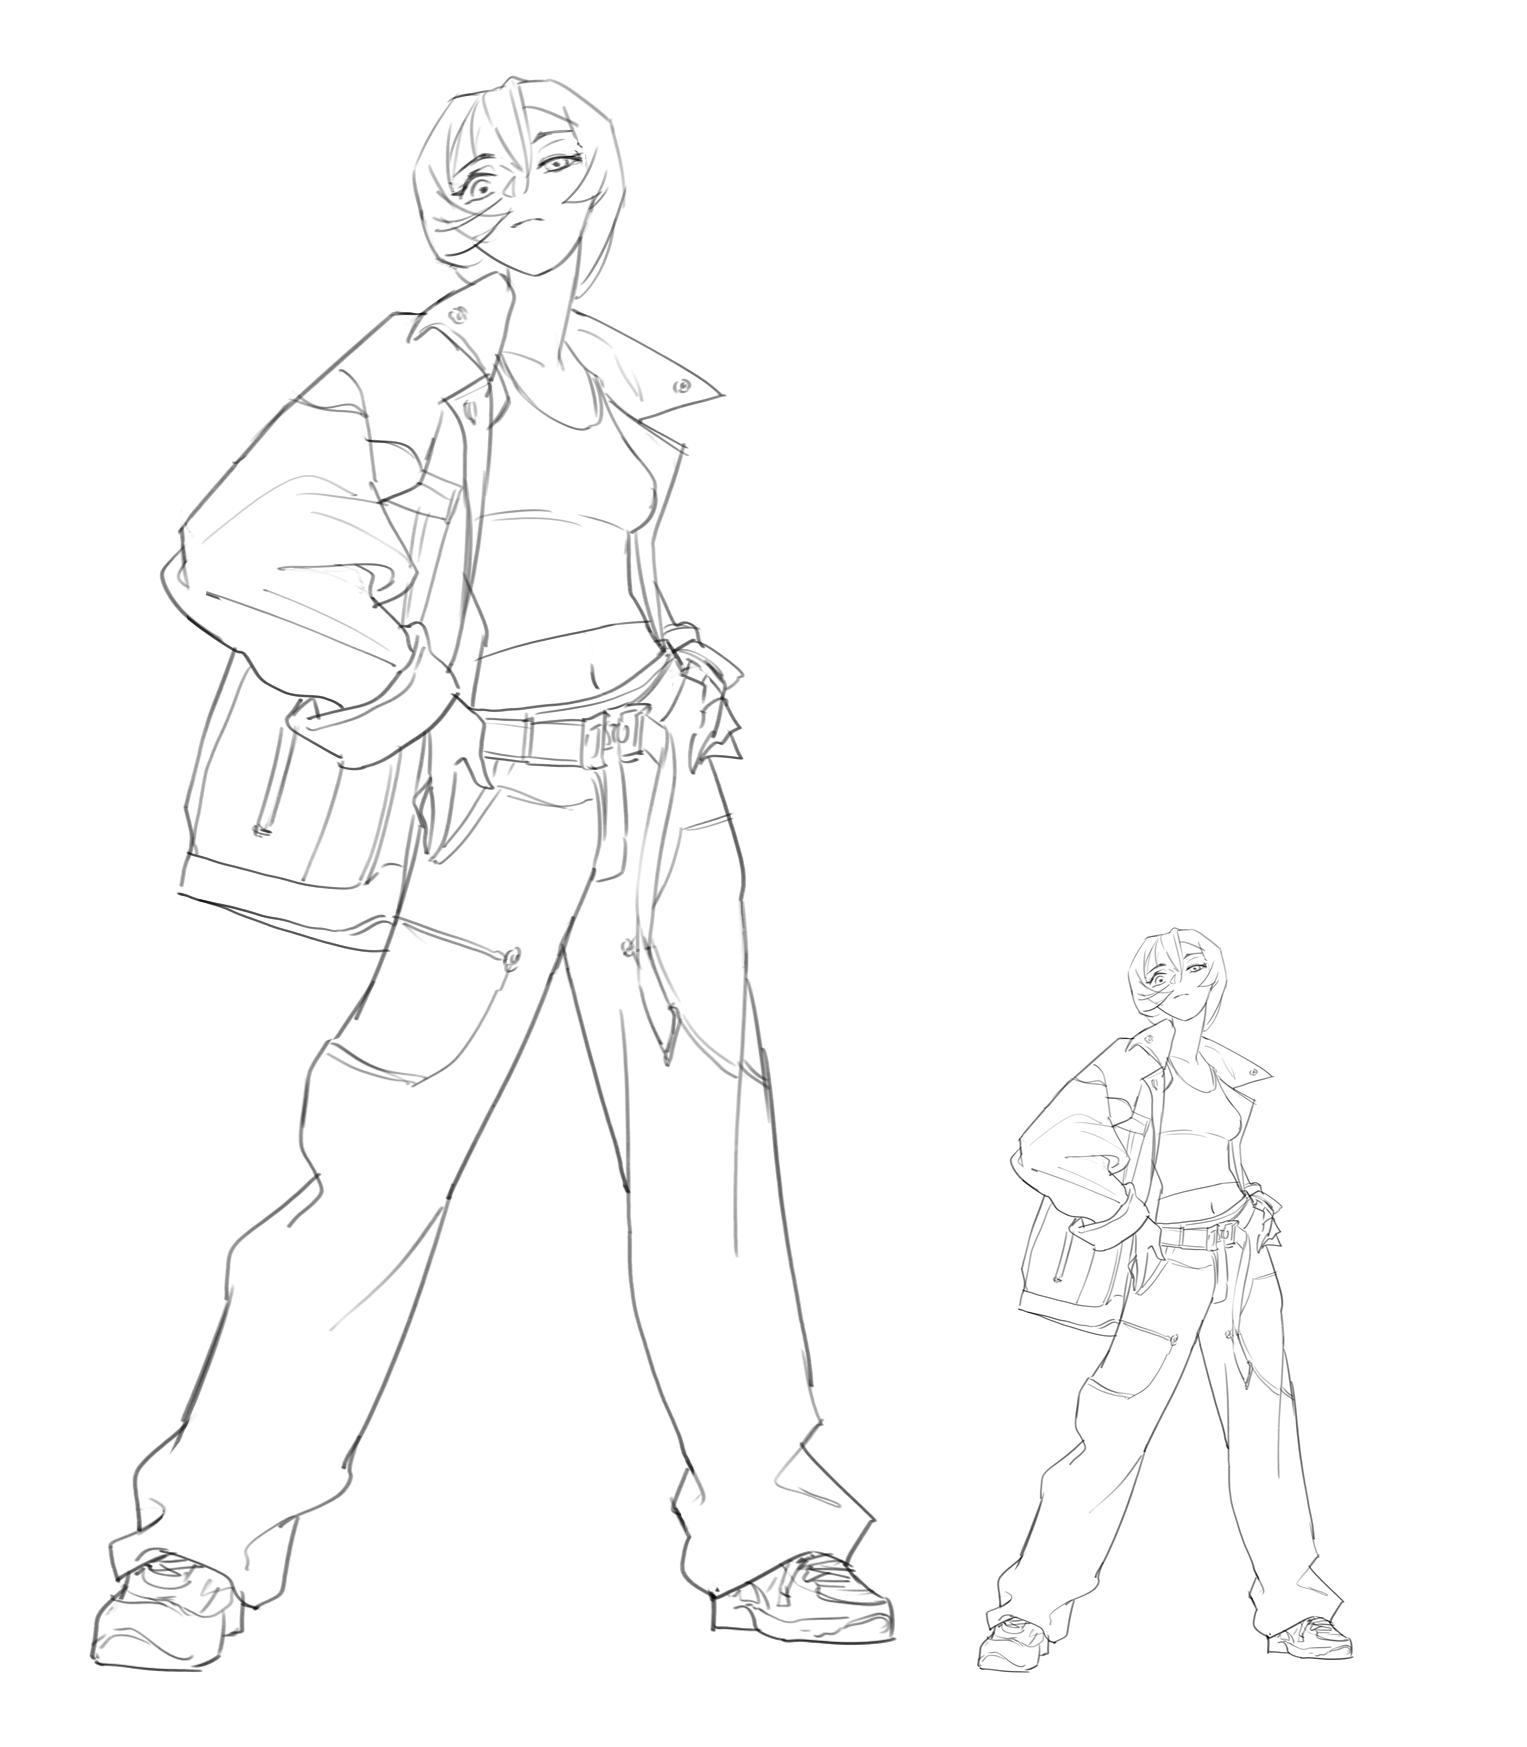
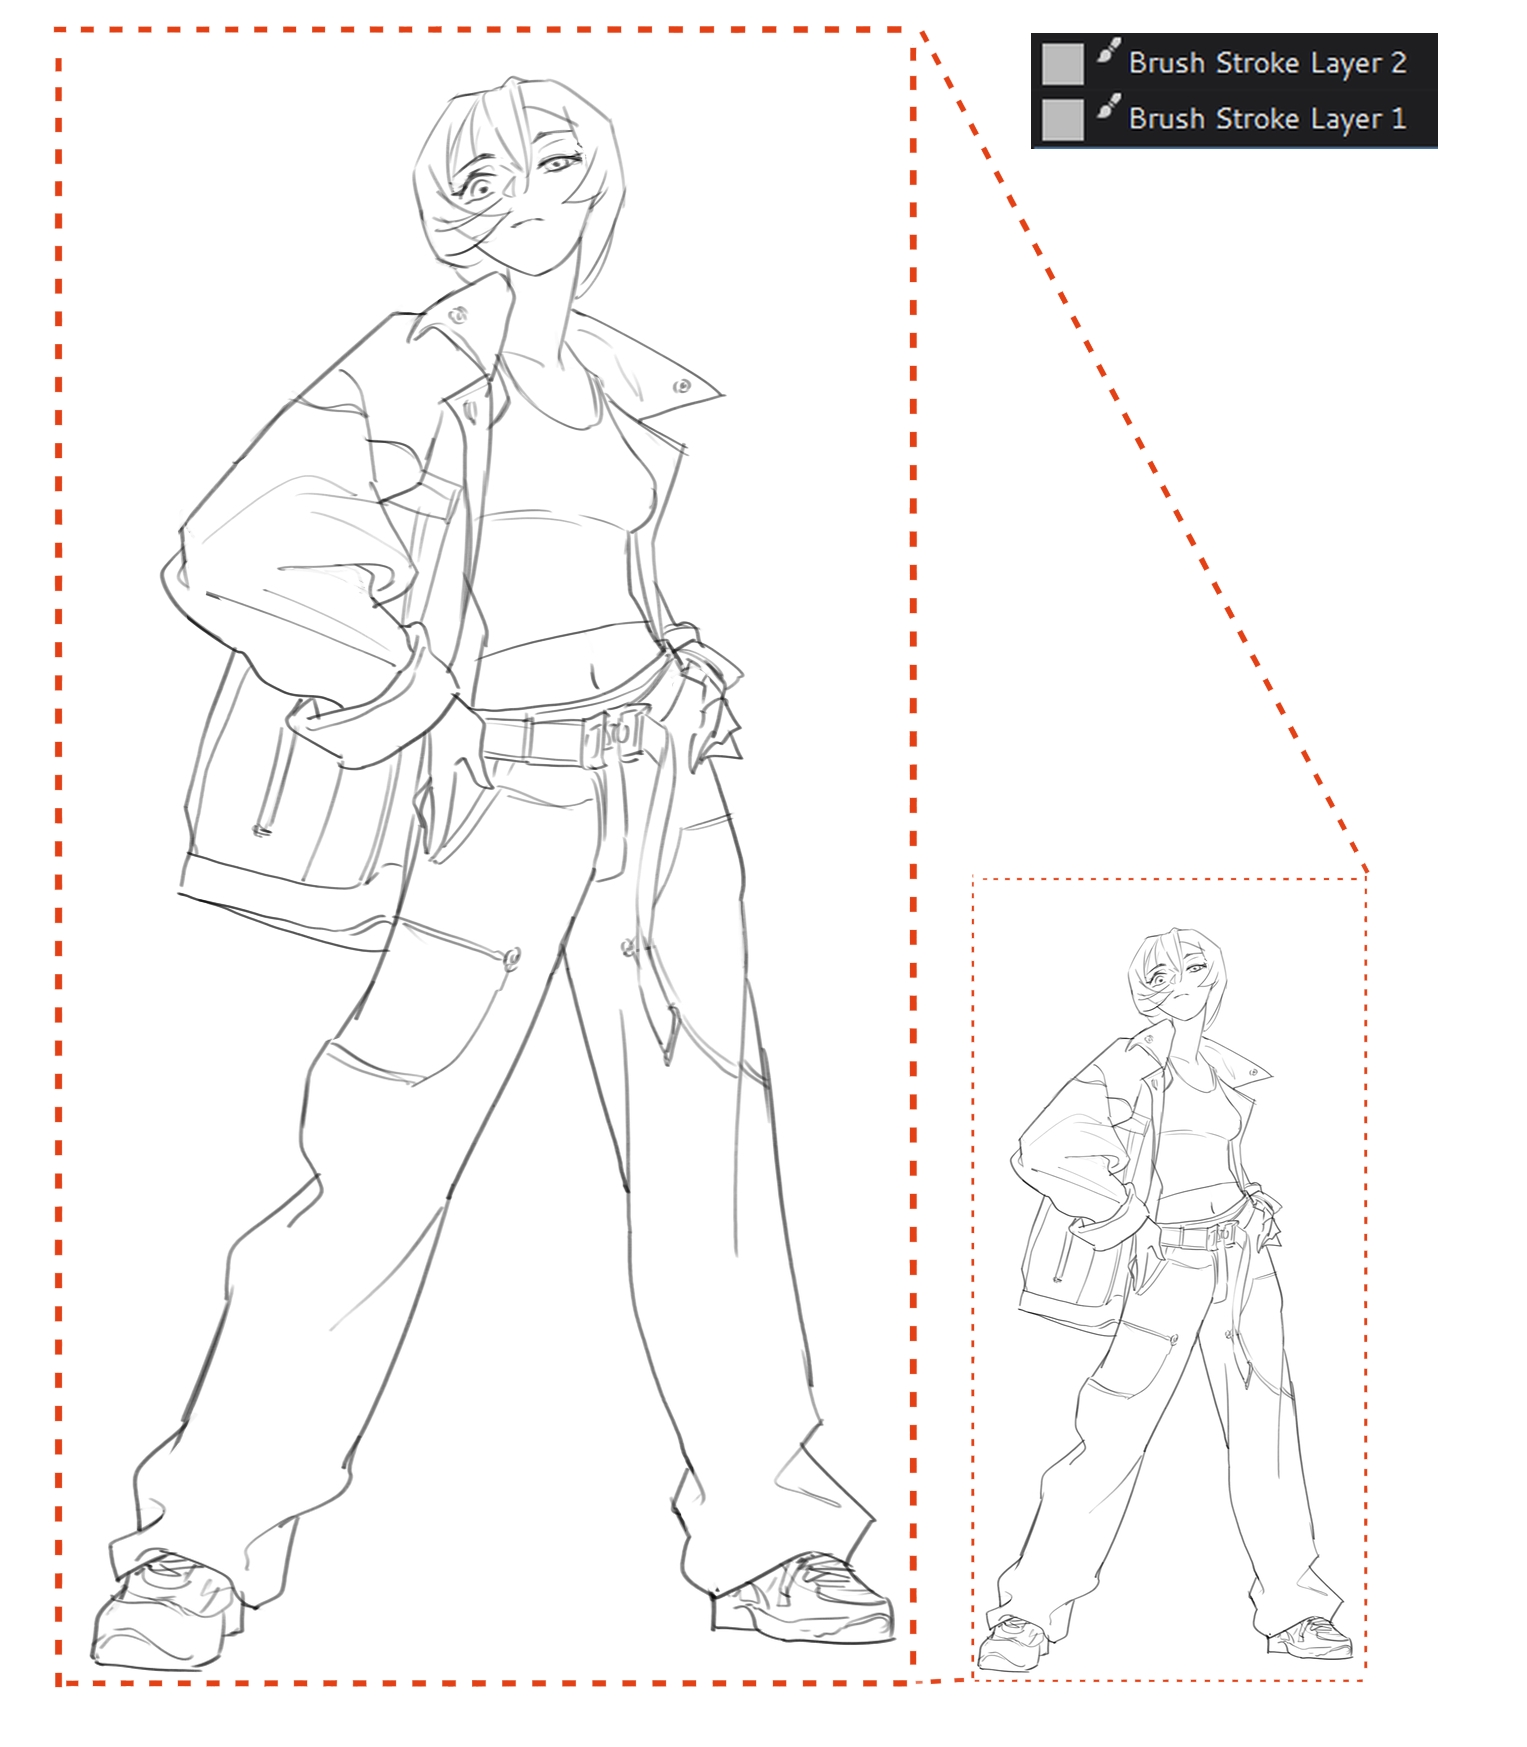
0.2.0-beta.2: Python plugins in the CI build, new images
- Version 0.2.0-beta.2, the second beta: the Windows CI build includes the
  Python plugins (Python Plugin Manager, pykrita) again; 0.2.0-beta was
  built without them.
- New Puppet Warp and Brush Stroke Layer images; the unused images/ folder
  (the old Puppet Warp image) is removed.

diff --git a/docs/agent/github-actions.md b/docs/agent/github-actions.md
@@ -143,6 +143,33 @@ Refresh procedure: run `refresh-dependency-lock.py`, review the recipe diff
 (as above), commit and push, then run the mirror workflow with that ref at
 once (KDE keeps builds only for a few weeks), then a build on `main`.
 
+## Python plugins (2026-10-14)
+
+The user found no Python Plugin Manager in the 0.2.0-beta ZIP. Every CI build
+until then had configured without Python plugins (pykrita): CMake ran with
+setup-python's interpreter, which has neither the dependency packages' SIP
+and PyQt6 nor the build-only modules SIP imports. Local builds get them from
+`env.bat`'s `PYTHONPATH` (`<install>\lib\site-packages`) and the system
+Python's `packaging` and `setuptools`.
+
+- `build-windows.ps1` sets `PYTHONPATH` to `$Deps/lib/site-packages` (the
+  dependency packages install SIP, PyQt6, pyqt6-sip and pyqt-builder there,
+  built for Python 3.13 like setup-python's).
+- The workflow's "Prepare Python build modules" step installs `packaging`
+  25.0 and `setuptools` 80.9.0 (the local versions; SIP requires setuptools
+  69.5 or newer) from `python-build-requirements.txt`, hash-pinned,
+  wheels only. The KDE packages stopped shipping such build-only modules
+  (upstream moved them to build dependencies). The `run:` line is quoted:
+  `--only-binary :all:` contains `: `, which YAML reads as a mapping.
+- Configure fails when `plugins/extensions/pykrita/plugin` is not in the
+  build tree (pykrita adds `sip`, `plugin` and `kritarunner` only with
+  Python, SIP and PyQt found), so the plugins cannot be lost silently again.
+- The packager already copies the dependencies' `lib\site-packages` and
+  Krita's `lib\krita-python-libs`.
+
+First check: run <https://github.com/udtren/Solstice/actions/runs/38488208727>
+(branch `ci/python-plugins`) configured with the Python plugins.
+
 ## First trial run (2026-10-03)
 
 - Commit: `70bf96017d55f9e4c7b24ce3297416a199a2264f`.
@@ -156,7 +183,7 @@ once (KDE keeps builds only for a few weeks), then a build on `main`.
   validate the cache value before starting the long compilation step.
 - No application ZIP was produced by this run; subsequent runs below verified
   the corrected configuration and packaging.
-- SIP/PyQt6 were not found with setup-python's interpreter, so Python plugin
+- (Fixed 2026-10-14, see "Python plugins" below.) SIP/PyQt6 were not found with setup-python's interpreter, so Python plugin
   support is disabled. Resolve the dependency package's Python module layout
   and interpreter compatibility before claiming parity with local builds.
   Eigen3 and xsimd were found through their supported-version fallbacks; the

diff --git a/docs/agent/versioning.md b/docs/agent/versioning.md
@@ -10,7 +10,7 @@ starting at `0.1.0-alpha`.
 
 | Version | Value | Defined in | Used for |
 | --- | --- | --- | --- |
-| Solstice version | `0.2.0-beta` | top-level `CMakeLists.txt`: `SOLSTICE_VERSION_MAJOR/MINOR/PATCH/LABEL/BUILD` -> `SOLSTICE_VERSION_STRING` | everything shown to users |
+| Solstice version | `0.2.0-beta.2` | top-level `CMakeLists.txt`: `SOLSTICE_VERSION_MAJOR/MINOR/PATCH/LABEL/BUILD` -> `SOLSTICE_VERSION_STRING` | everything shown to users |
 | Krita compatibility version | `6.0.5-prealpha` | top-level `CMakeLists.txt`: `KRITA_VERSION_STRING` and related | file formats, resources, scripting, library versions |
 
 `libs/version/kritaversion.h.cmake` defines both. `KritaVersionWrapper`
@@ -62,8 +62,8 @@ Edit only the `SOLSTICE_VERSION_*` values in the top-level `CMakeLists.txt`:
 
 - `MINOR` for a milestone, `PATCH` for fixes only (pre-1.0 semantic
   versioning);
-- `LABEL`: `beta` now (`alpha` until 2026-10-13), then `rc.N`, empty for a
-  release;
+- `LABEL`: `beta.2` now (`alpha` until 2026-10-13, `beta` for the first
+  beta), then `beta.N` or `rc.N`, empty for a release;
 - `BUILD`: the fourth Windows file-version digit, for rebuilds of the same
   version; otherwise 0.
 
@@ -77,7 +77,8 @@ appears in the version strings.
 | --- | --- | --- |
 | `0.1.0-alpha` | 2026-10-07 | First Solstice version. |
 | `0.2.0-alpha` | 2026-10-10 | Milestone (user request): GPU brush by default, masking brush on the GPU, ABR import improvements, Solstice icons and splash, Explorer thumbnails. |
-| `0.2.0-beta` | 2026-10-13 | Beta for publication (user request), after the pre-release review; only the label changes. |
+| `0.2.0-beta` | 2026-10-13 | Beta for publication (user request), after the pre-release review; only the label changes. Released 2026-10-14 as GitHub Release `v0.2.0-beta` (prerelease, commit `a442a5ce25`); its CI build lacked the Python plugins. |
+| `0.2.0-beta.2` | 2026-10-14 | Second beta (user request): the CI build includes the Python plugins (Python Plugin Manager, pykrita) again; new Puppet Warp and Brush Stroke Layer images. GitHub Release `v0.2.0-beta.2`. |
 
 ## Checks
 

diff --git a/README.md b/README.md
@@ -95,13 +95,13 @@ Eyes in the Brush Editor choose the settings that the Tool Options docker
 shows in its Brush section. See
 [Brush options in Tool Options](docs/brush-editor.md#brush-options-in-tool-options).
 
-<img src="docs/images/brush-stroke-layer.png" alt="A small figure sketch on a Brush Stroke Layer and a copy enlarged with Scale Image that was drawn again at the new size" width="480">
+<img src="docs/images/brush-stroke-layer.png" alt="A small figure sketch and a copy enlarged and drawn again at the new size, on two Brush Stroke Layers" width="480">
 
 A figure sketch on a Brush Stroke Layer and a copy of it enlarged with
 Image > Scale Image: the strokes are drawn again at the new size instead of
 being resampled. See the [Brush Stroke Layer guide](docs/brush-stroke-layer.md).
 
-<img src="docs/images/puppet-warp.webp" alt="A painted figure and a copy reposed with Puppet Warp: the Transform Tool's triangle mesh over the figure, with pins on the head, the shoulder, the raised arm, the waist and the legs" width="480">
+<img src="docs/images/puppet-warp.webp" alt="A painted figure and a copy reposed with Puppet Warp: the Transform Tool's triangle mesh over the figure, with pins on the head, the shoulder, the raised arm, the waist and the legs, and the Puppet Warp Tool Options" width="480">
 
 A figure reposed with Puppet Warp in the Transform Tool: pins on the mesh
 move and rotate the parts around them. See the

diff --git a/docs/agent/wiki/log.md b/docs/agent/wiki/log.md
@@ -975,3 +975,16 @@ Format: `## YYYY-MM-DD <kind>: <subject>`, then what changed and the sources.
   mirror"). Lesson: a mirror repository's own workflow can upload to its
   own releases with the built-in token, so no cross-repository secret is
   needed.
+
+## 2026-10-14 ingest: 0.2.0-beta release, launch, Python plugins, beta.2
+
+- 0.2.0-beta was published as a GitHub prerelease and the website went live
+  at solstice.tidalboxstudio.com (Cloudflare Workers, `develop` merged into
+  `main`). The user then found no Python Plugin Manager: the CI build had
+  always configured without the Python plugins
+  ([GitHub Actions](../github-actions.md), "Python plugins"). 0.2.0-beta.2
+  is the corrected build.
+- Lesson: an optional feature that configure drops silently must be checked
+  in CI like the GPU engine is, or a release can ship without it unnoticed;
+  check what the published package contains against a local build, not only
+  that the build succeeds.

diff --git a/docs/versioning.md b/docs/versioning.md
@@ -1,16 +1,16 @@
 # Versions
 
 Solstice has its own version number. It started at 0.1.0-alpha; the
-current version is **0.2.0-beta**.
+current version is **0.2.0-beta.2**.
 
 - **0.x** means Solstice is still in testing: features and behavior can
   change between versions.
 - The second number increases for a set of new features, the third for
   fixes only.
-- The label shows the stage: `alpha` until 2026-10-13, `beta` now, later
-  release candidates. Version 1.0.0 will be the first release without a label.
+- The label shows the stage: `alpha` until 2026-10-13, then `beta`
+  (`beta.2` is the second beta), later release candidates. Version 1.0.0 will be the first release without a label.
 - Development builds add the source revision, for example
-  `0.2.0-beta (git efaf8d8)`.
+  `0.2.0-beta.2 (git efaf8d8)`.
 
 The version appears on the splash screen, in **Help > About Solstice**, in
 **Help > Show system information for bug reports** and in the file

diff --git a/docs/puppet-warp.md b/docs/puppet-warp.md
@@ -1,6 +1,6 @@
 # Puppet Warp
 
-<img src="images/puppet-warp.webp" alt="A painted figure and a copy reposed with Puppet Warp: the Transform Tool's triangle mesh over the figure, with pins on the head, the shoulder, the raised arm, the waist and the legs" width="60%">
+<img src="images/puppet-warp.webp" alt="A painted figure and a copy reposed with Puppet Warp: the Transform Tool's triangle mesh over the figure, with pins on the head, the shoulder, the raised arm, the waist and the legs, and the Puppet Warp Tool Options" width="60%">
 
 Puppet Warp is a mode of the Transform Tool for posing characters
 and reshaping raster artwork with pins that can be moved and rotated. The
